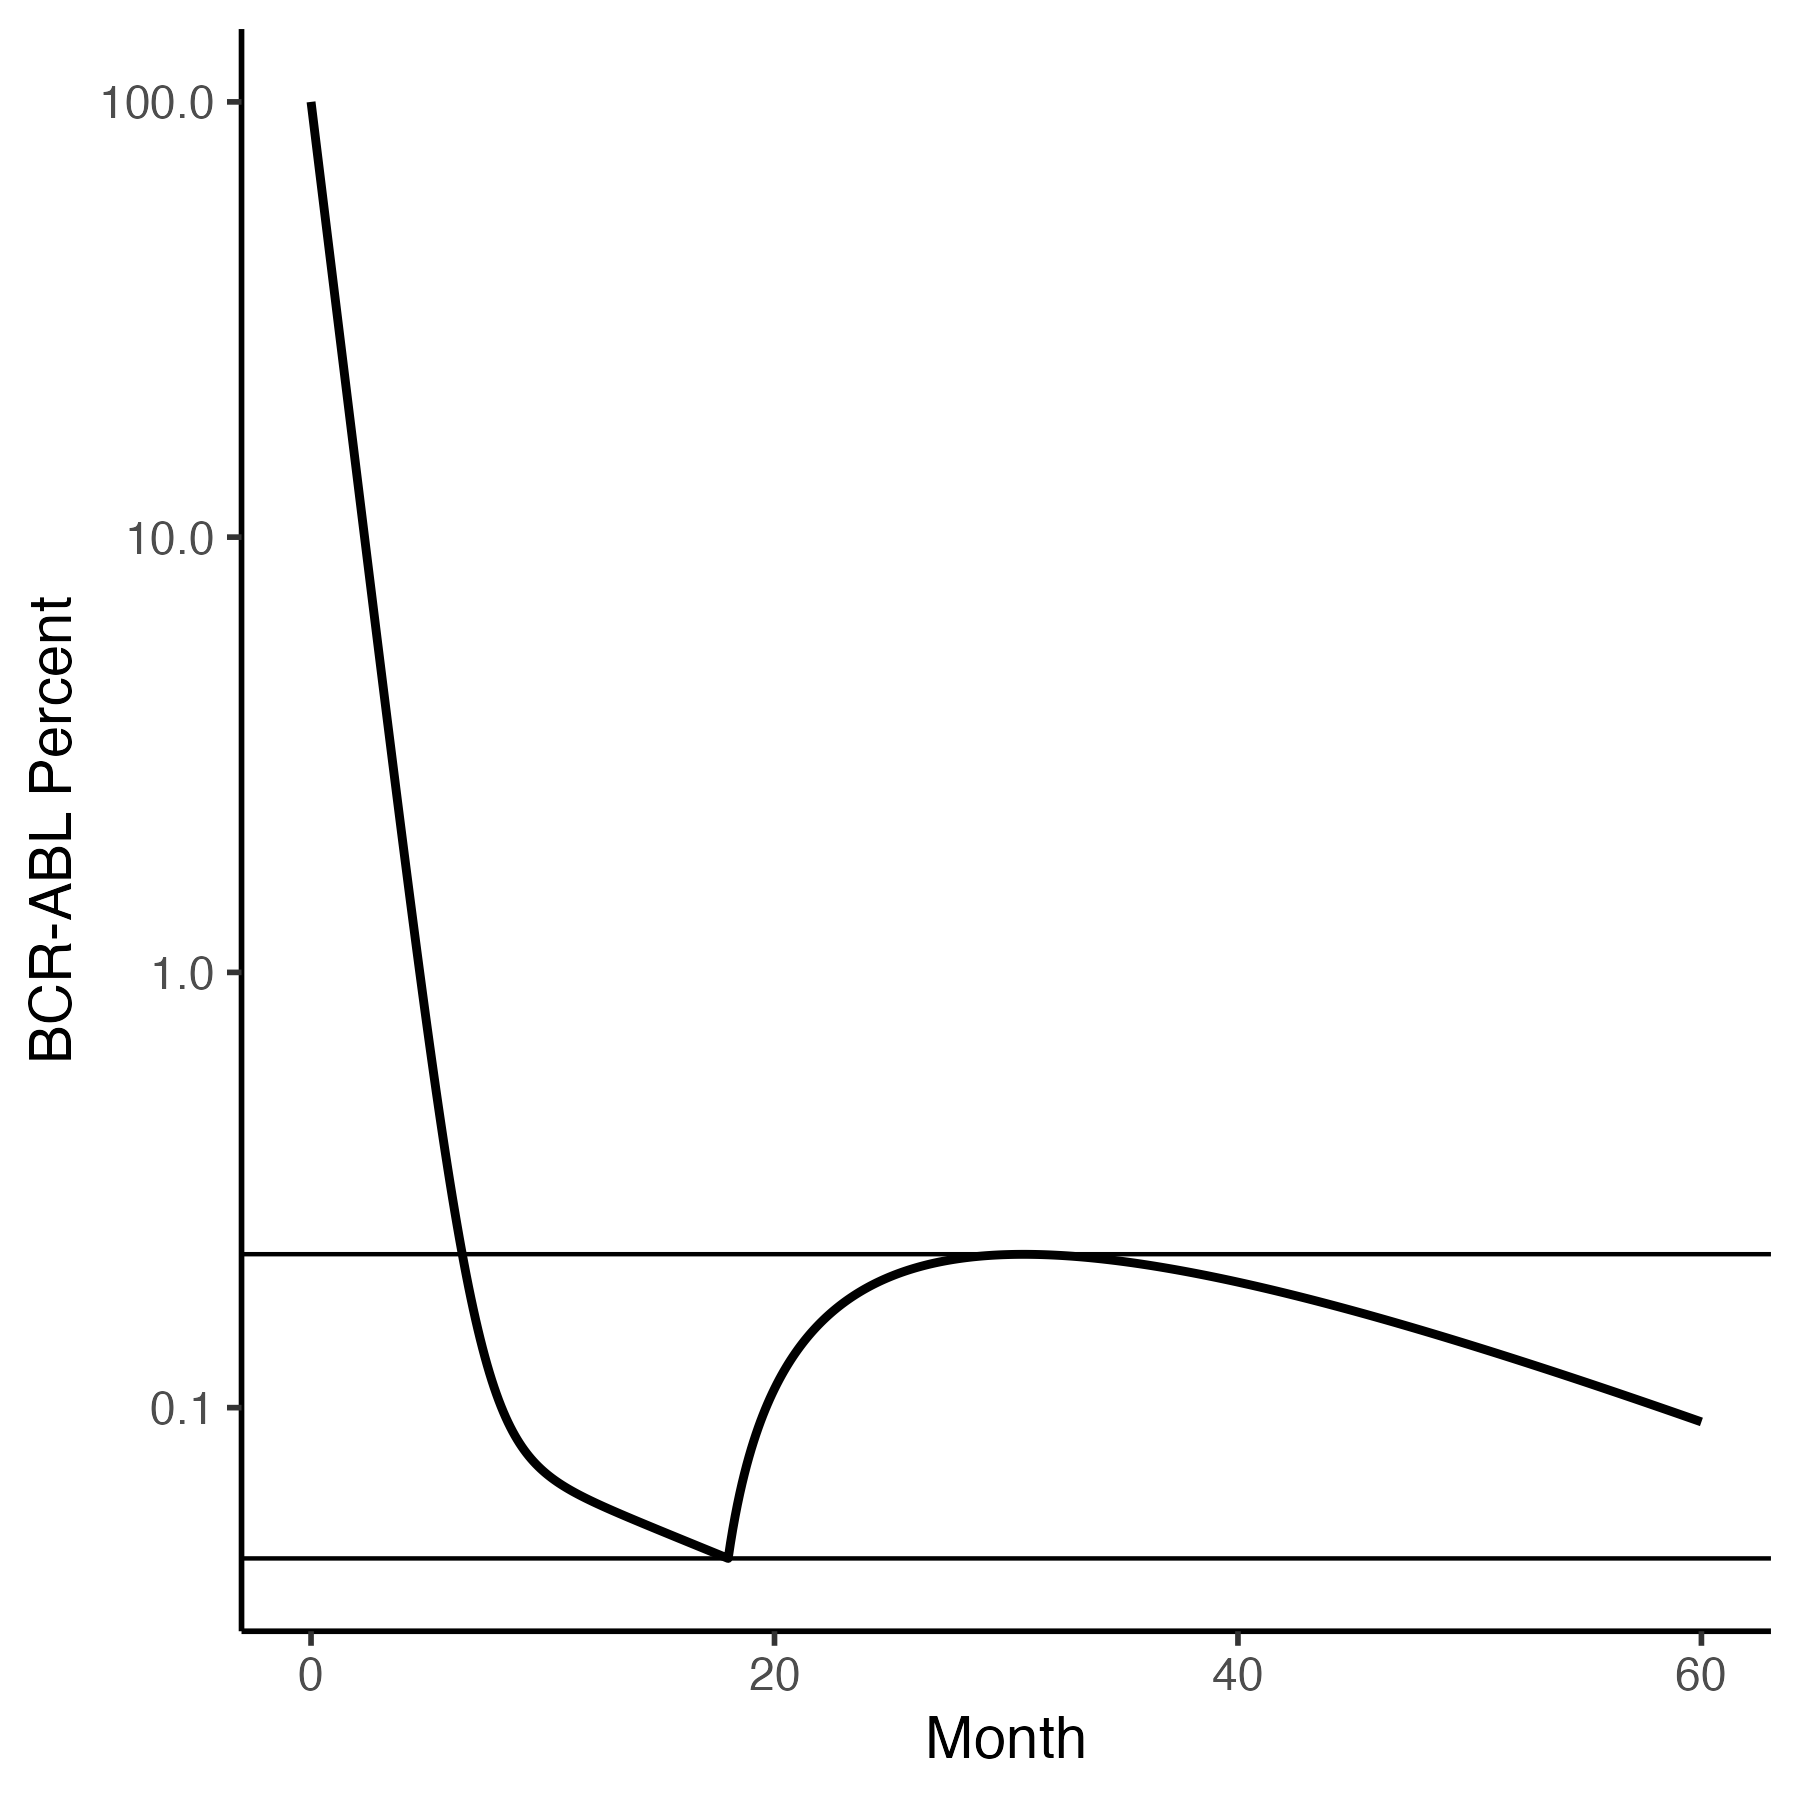
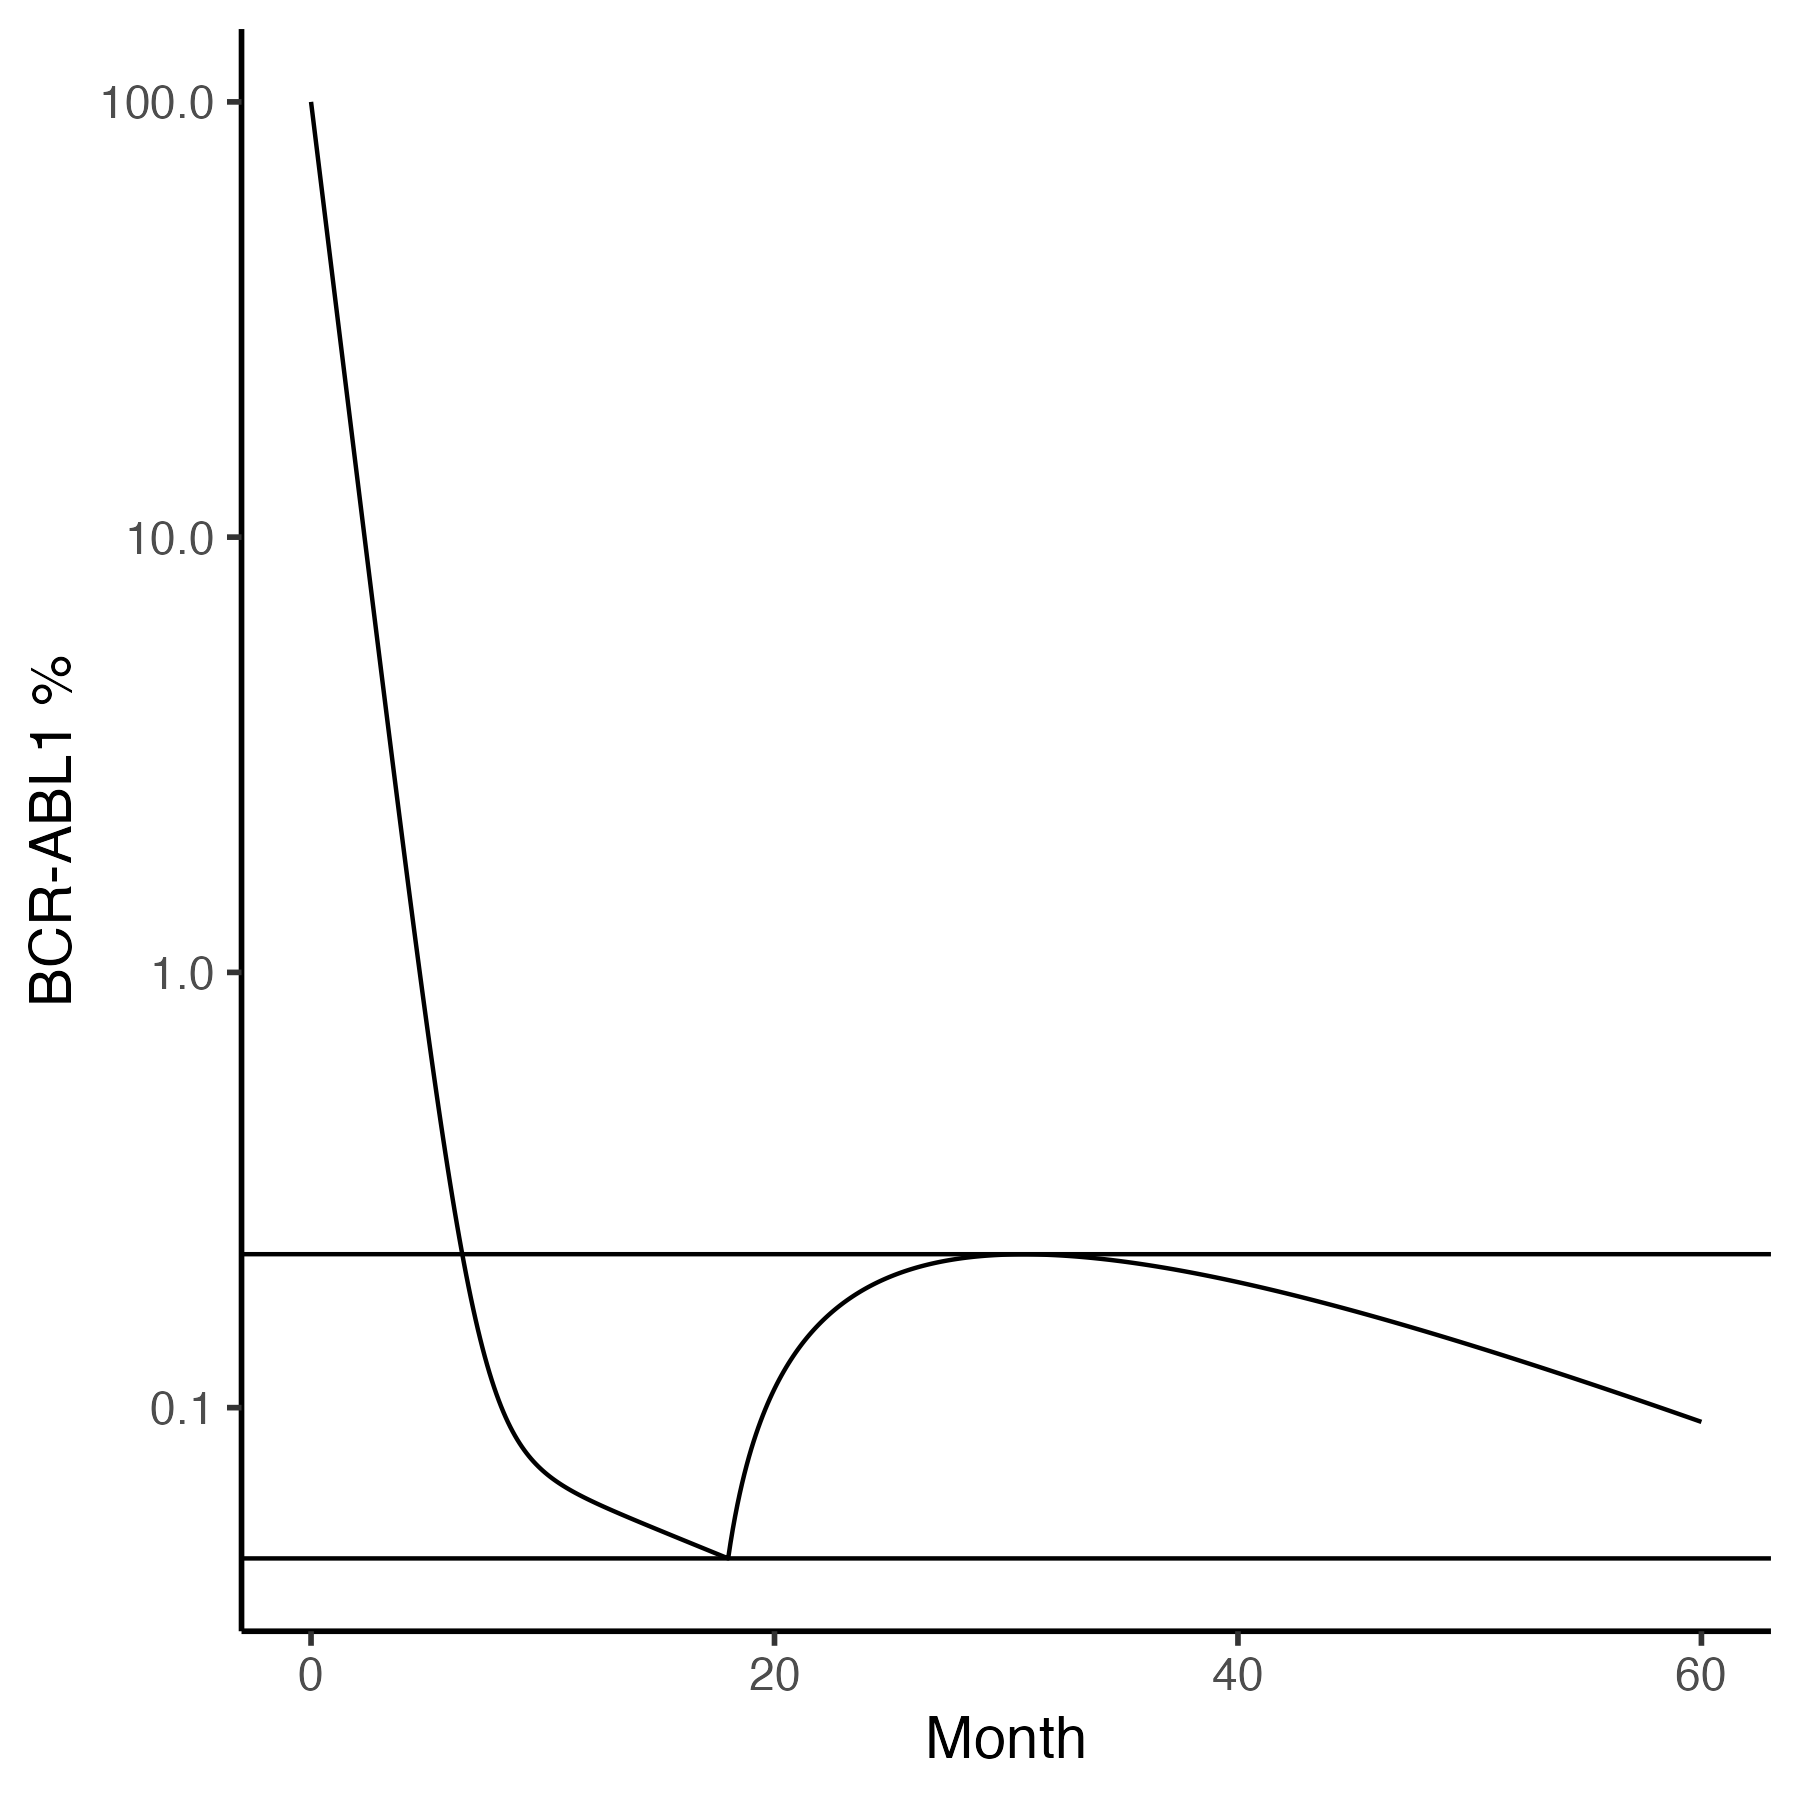
update Fassoni18
add figures and text

diff --git a/CML/Fassoni18/README.md b/CML/Fassoni18/README.md
@@ -1,14 +1,12 @@
-## Reduced tyrosine kinase inhibitor dose is predicted to be as effective as standard dose in chronic myeloid leukemia: a simulation study based on phase III trial data. Fassoni et al, Haematologica (2018). 
+# Reduced tyrosine kinase inhibitor dose is predicted to be as effective as standard dose in chronic myeloid leukemia: a simulation study based on phase III trial data 
+### Artur Fassoni, Christoph Baldow, Ingo Roeder and Ingmar Glauche 
+### *Haematologica* (2018) 103(11):1825-1834
 
 
-The first goal is to reproduce the average patient full-dosing plot in Figure 1C using the population median rounded parameters
-q = 1, pXY = 0.05, pYX = 0.001, L0 = 100 and pY = 0.2 found in Section S3
-This code makes this plot.
+First we reproduce the plot in Figure 1C using population median parameter values.
 
 ```
-
 rm(list=ls())
-library(myelo)
 library(tidyverse)
 TY=1e6
 TX=1e6/50
@@ -22,27 +20,25 @@ fassoni<-function(Time, State, Pars) {
 }
 ic=c(X=TX,Y=TY)
 library(deSolve)
-d=ode(y = ic, times = seq(0,60,.1), func = fassoni, parms = c(pxy=0.05,pyx=0.001,q=1))
+d=ode(y = ic, times = seq(0,60,.1), func = fassoni, parms = c(pxy=0.05,pyx=0.001,q=1)) # see Section S3
 d=as_tibble(d)%>%mutate_all(as.numeric)
 names(d)<-c("Month","X","Y","Prct")
 tc=function(sz) theme_classic(base_size=sz)
-gy=ylab("BCR-ABL Percent")
+gy=ylab("BCR-ABL1 %")
 head(d)
-d%>%ggplot(aes(x=Month,y=Prct))+geom_line(size=1)+
-  gy+tc(14)+scale_y_log10()+theme(legend.position="top")
+gl=geom_line()
+d%>%ggplot(aes(x=Month,y=Prct))+gl+gy+tc(14)+scale_y_log10()
 ggsave("../docs/fasssoniF1C.png",width=6,height=6)
-
 ```
 
 ![](../../docs/fasssoniF1C.png)
 
 
-## Dose reduction
+## Dose reductions
 
-Our hope is that a typical patient on trial will respond to dose halvings as follows  
+Next we see what two dose halvings are expected to do to a typical patient.  
 
 ```
-
 fassoni_f<-function(Time, State, Pars) {
     with(as.list(c(Time, State, Pars)),{
     dX = -pxy*X + pyx*Y 
@@ -61,21 +57,17 @@ d=ode(y = ic, times = seq(0,60,.1), func = fassoni_f,
       parms = c(pxy=0.05,pyx=0.001,py=0.2,etki=1.2))
 d=as_tibble(d)%>%mutate_all(as.numeric)
 names(d)<-c("Month","X","Y","f","Prct")
-tc=function(sz) theme_classic(base_size=sz)
-gy=ylab("BCR-ABL Percent")
-head(d)
-head(d)
 y0=(d%>%filter(Month==18))[["Prct"]]
 y1=5*y0
-d%>%ggplot(aes(x=Month,y=Prct))+geom_line(size=1)+geom_hline(yintercept=c(y0,y1))+
-# d%>%ggplot(aes(x=Month,y=Prct))+geom_line(size=1)+
-  gy+tc(14)+scale_y_log10()+theme(legend.position="top")
+gh=geom_hline(yintercept=c(y0,y1))
+d%>%ggplot(aes(x=Month,y=Prct))+gl+gh+gy+tc(14)+scale_y_log10()
 ggsave("../docs/fasssoniF3C.png",width=6,height=6)
+dB=cbind(d,Scenario="Average") # save for later
 
 ```
 
 ![](../../docs/fasssoniF3C.png)
-Here the upper horixontal line is 5-fold higher than the cance burden at the time of the first dose reduction.
+The upper horizontal line is 5-fold higher than the cancer burden at the time of the first dose reduction.
 
 
 ## Borderline Cases
@@ -94,28 +86,23 @@ d=ode(y = ic, times = seq(0,60,.1), func = fassoni_f,
       parms = c(pxy=0.05,pyx=0.001,py=0.2,etki=1.2))
 d=as_tibble(d)%>%mutate_all(as.numeric)
 names(d)<-c("Month","X","Y","f","Prct")
-tc=function(sz) theme_classic(base_size=sz)
-gy=ylab("BCR-ABL Percent")
-head(d)
-y0=(d%>%filter(Month==18))[["Prct"]]
-y1=5*y0
-d%>%ggplot(aes(x=Month,y=Prct))+geom_line(size=1)+geom_hline(yintercept=c(y0,y1))+
-  gy+tc(14)+scale_y_log10()+theme(legend.position="top")
+d%>%ggplot(aes(x=Month,y=Prct))+gl+gh+gy+tc(14)+scale_y_log10()
 ggsave("../docs/fasssoniF2D.png",width=6,height=6)
+dC=cbind(d,Scenario="Borderline") # save for later
 
 ```
 
 ![](../../docs/fasssoniF2D.png)
 
-Comparing the last two plots, one sees that, in terms of transient perturbations that
-could trigger a return to a higher dose, it is better to halve doses in series rather than all at once. 
+Comparing the last two plots, to minimize transient perturbations, it is better to halve doses twice 
+than to reduce doses 4-fold all at once. 
 
 
 
 ## Failures
 
-And there will be some patients who must return to their previous dose. This is mimicked 
-here by reducing the dose to an average patient 10-fold.
+There will be some patients who must return to their previous dose. This is mimicked 
+here by reducing a typical patient's dose 10-fold.
 
 ```
 (eventdat=data.frame(var="f",
@@ -127,16 +114,24 @@ d=ode(y = ic, times = seq(0,60,.1), func = fassoni_f,
       parms = c(pxy=0.05,pyx=0.001,py=0.2,etki=1.2))
 d=as_tibble(d)%>%mutate_all(as.numeric)
 names(d)<-c("Month","X","Y","f","Prct")
-tc=function(sz) theme_classic(base_size=sz)
-gy=ylab("BCR-ABL Percent")
-head(d)
-y0=(d%>%filter(Month==18))[["Prct"]]
-y1=5*y0
-d%>%ggplot(aes(x=Month,y=Prct))+geom_line(size=1)+geom_hline(yintercept=c(y0,y1))+
-  gy+tc(14)+scale_y_log10()+theme(legend.position="top")
+d%>%ggplot(aes(x=Month,y=Prct))+gl+gh+gy+tc(14)+scale_y_log10()
 ggsave("../docs/fasssoniF2E.png",width=6,height=6)
-
+dF=cbind(d,Scenario="Failure")
 ```
 
 ![](../../docs/fasssoniF2E.png)
+
+
+
+## All in One Plot
+
+
+```
+D=bind_rows(dB,dC,dF)
+D%>%ggplot(aes(x=Month,y=Prct,col=Scenario))+gl+gh+gy+tc(14)+scale_y_log10()+theme(legend.position="top")
+ggsave("../docs/allInOne.png",width=6,height=6)
+```
+
+![](../../docs/allInOne.png)
+
 
